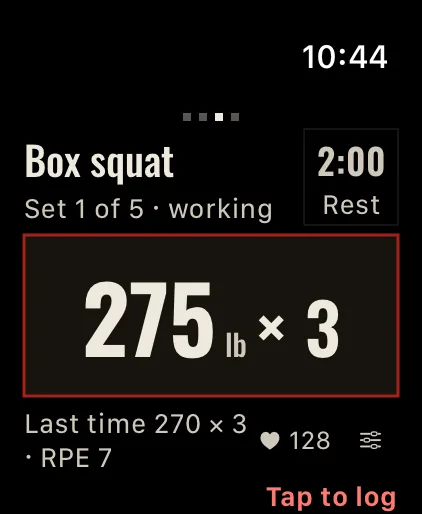
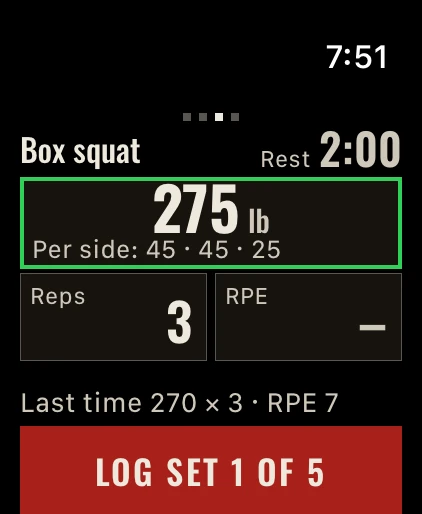
IronStack 10-10: the new watch set page in pictures and words (decision 22 a)
watch-set.webp is retaken from the 22 a build on the same 49 mm Simulator
(422 × 514, made-up demo data): weight with plates per side, Reps, RPE and
Log set, where the old shot had one card and "Tap to log". The home, Rack,
IronStack and details pages now say tap a number, turn the Crown, tap Log set.
The 10-10 notes gain the watch-fit line (synced from fix/watch-set-fits).

Claude-Session: https://claude.ai/code/session_0143SRMSeeBHCNdsQ1Ad6r9K

diff --git a/src/content/releases/ironstack-0.1.1-next.md b/src/content/releases/ironstack-0.1.1-next.md
@@ -2,8 +2,8 @@
 app: ironstack
 version: "0.1.1"
 order: 1001
-changes: 43
-groups: [{"title": "Today", "slug": "today", "leads": ["Check-in is one sheet for the start of a workout.", "Today's ··· menu says what each edit does: \"Reorder, group or remove exercises\" and \"Change planned sets\".", "Before you start, and under Up next, a superset or circuit no longer shows \"A1\" and \"A2\" tags.", "An exercise from today's superset or circuit that you add by typing it, saying it or picking it in Add an...", "An exercise renamed or swapped by a Stack AI card is counted once.", "End a workout with nothing logged and Today asks \"Nothing logged. End without saving?\".", "Changing the bar or implement during a workout works again: pick one, choose its weight, then Done."]}, {"title": "The clock", "slug": "the-clock", "leads": ["Every clock warns the same way, on the phone and the watch.", "Voice cues follow the ringer switch as it is now: muted, the phone buzzes.", "With your watch in the workout, the heart-rate number keeps its place on the clock, so a late reading no..."]}, {"title": "Exercise library", "slug": "exercise-library", "leads": ["The library is in sections by movement.", "Settings › Training › Library sections chooses which sections show when you browse.", "When search results come from more than one section, each one says which, such as \"Conditioning · Hyrox\"...", "The Training, Muscle and Equipment buttons and their chips are bigger and easier to see.", "Basketball and lacrosse: 86 new exercises...", "Some exercises now carry a coaching note on their page, such as how to land a depth jump.", "Shooting drills say what a rep is on the set sheet: \"Reps are makes\" (or goals, wins, saves).", "Drop and Turn is another name for Yoke Walk, and Elbows Out DB Extensions for Tate Press, so sets logged..."]}, {"title": "Plan", "slug": "plan", "leads": ["A row under Plan's title goes straight to Program, Programs, Workouts or the exercise library, and stays put..."]}, {"title": "History", "slug": "history", "leads": ["Workouts and Progress have a large title under the switch, so you can see which page you're on.", "On an exercise's page, the range you pick (3 months, 1 year and so on) sets the whole page."]}, {"title": "Home and Social", "slug": "home-and-social", "leads": ["Support stays in step between Social and Home.", "Notifications from Social and from your coach never show anything you typed."]}, {"title": "Coach mode (beta)", "slug": "coach-mode-beta", "leads": ["Every way into coaching (asking a coach, accepting an invite, and Coach me) says what our server does with...", "Tell Stack AI you're on a coach's plan and it will still build a workout for today, but a new program is a..."]}, {"title": "Stack AI", "slug": "stack-ai", "leads": ["The Stack AI button is the new Stack AI mark, three plates.", "Stack AI builds a workout or a program when you ask for one, from what you asked and your log, on a card.", "Ask Stack AI to change a workout it drafted and the change comes back as a card, never as the workout written...", "Save to Plan on a workout Stack AI revised replaces that workout in your Plan instead of adding a second copy.", "Dumbbell lifts and other lifts held in both hands are read per hand.", "When Stack AI is broken on our side, it says...", "Copy my log to the server is gone, and everything it copied has been erased from the server."]}, {"title": "Apple Watch", "slug": "apple-watch", "leads": ["The set page on the watch is new.", "Under the weight, the watch shows the plates per side for the weight your phone planned.", "Heart rate is on the watch's Clock page, no longer on the set page.", "Finish a workout on your watch and your phone offers to share it, once, when you're next on Today...", "Finish on the watch with nothing logged and it says so, and saves nothing to Health.", "Settings › Apple Watch is one section, and it shows the watch app's own version, such as..."]}, {"title": "Settings", "slug": "settings", "leads": ["Settings › Gym has one place for everything your gym has.", "A bodyweight that came from Apple Health now stays current with your newest weigh-in when you come back to...", "Settings › You says \"Add your sex to see your strength score.\" only until you answer.", "Sharing your export from Settings › Your data keeps the share sheet and Settings up, however big your log.", "Settings and the tour say a set is logged where they used to say it lands, as in..."]}]
+changes: 44
+groups: [{"title": "Today", "slug": "today", "leads": ["Check-in is one sheet for the start of a workout.", "Today's ··· menu says what each edit does: \"Reorder, group or remove exercises\" and \"Change planned sets\".", "Before you start, and under Up next, a superset or circuit no longer shows \"A1\" and \"A2\" tags.", "An exercise from today's superset or circuit that you add by typing it, saying it or picking it in Add an...", "An exercise renamed or swapped by a Stack AI card is counted once.", "End a workout with nothing logged and Today asks \"Nothing logged. End without saving?\".", "Changing the bar or implement during a workout works again: pick one, choose its weight, then Done."]}, {"title": "The clock", "slug": "the-clock", "leads": ["Every clock warns the same way, on the phone and the watch.", "Voice cues follow the ringer switch as it is now: muted, the phone buzzes.", "With your watch in the workout, the heart-rate number keeps its place on the clock, so a late reading no..."]}, {"title": "Exercise library", "slug": "exercise-library", "leads": ["The library is in sections by movement.", "Settings › Training › Library sections chooses which sections show when you browse.", "When search results come from more than one section, each one says which, such as \"Conditioning · Hyrox\"...", "The Training, Muscle and Equipment buttons and their chips are bigger and easier to see.", "Basketball and lacrosse: 86 new exercises...", "Some exercises now carry a coaching note on their page, such as how to land a depth jump.", "Shooting drills say what a rep is on the set sheet: \"Reps are makes\" (or goals, wins, saves).", "Drop and Turn is another name for Yoke Walk, and Elbows Out DB Extensions for Tate Press, so sets logged..."]}, {"title": "Plan", "slug": "plan", "leads": ["A row under Plan's title goes straight to Program, Programs, Workouts or the exercise library, and stays put..."]}, {"title": "History", "slug": "history", "leads": ["Workouts and Progress have a large title under the switch, so you can see which page you're on.", "On an exercise's page, the range you pick (3 months, 1 year and so on) sets the whole page."]}, {"title": "Home and Social", "slug": "home-and-social", "leads": ["Support stays in step between Social and Home.", "Notifications from Social and from your coach never show anything you typed."]}, {"title": "Coach mode (beta)", "slug": "coach-mode-beta", "leads": ["Every way into coaching (asking a coach, accepting an invite, and Coach me) says what our server does with...", "Tell Stack AI you're on a coach's plan and it will still build a workout for today, but a new program is a..."]}, {"title": "Stack AI", "slug": "stack-ai", "leads": ["The Stack AI button is the new Stack AI mark, three plates.", "Stack AI builds a workout or a program when you ask for one, from what you asked and your log, on a card.", "Ask Stack AI to change a workout it drafted and the change comes back as a card, never as the workout written...", "Save to Plan on a workout Stack AI revised replaces that workout in your Plan instead of adding a second copy.", "Dumbbell lifts and other lifts held in both hands are read per hand.", "When Stack AI is broken on our side, it says...", "Copy my log to the server is gone, and everything it copied has been erased from the server."]}, {"title": "Apple Watch", "slug": "apple-watch", "leads": ["The set page on the watch is new.", "The watch's set page fits the screen.", "Under the weight, the watch shows the plates per side for the weight your phone planned.", "Heart rate is on the watch's Clock page, no longer on the set page.", "Finish a workout on your watch and your phone offers to share it, once, when you're next on Today...", "Finish on the watch with nothing logged and it says so, and saves nothing to Health.", "Settings › Apple Watch is one section, and it shows the watch app's own version, such as..."]}, {"title": "Settings", "slug": "settings", "leads": ["Settings › Gym has one place for everything your gym has.", "A bodyweight that came from Apple Health now stays current with your newest weigh-in when you come back to...", "Settings › You says \"Add your sex to see your strength score.\" only until you answer.", "Sharing your export from Settings › Your data keeps the share sheet and Settings up, however big your log.", "Settings and the tour say a set is logged where they used to say it lands, as in..."]}]
 status: in-progress
 ---
 
@@ -66,6 +66,7 @@ status: in-progress
 ### Apple Watch
 
 - **The set page on the watch is new.** Weight, reps and RPE are three numbers: tap one and turn the Digital Crown to change it. Nothing logs until you tap Log set. RPE opens a bigger picker with half steps (6 to 8 first, swipe for 8.5 to 10), on the page of the RPE you last gave that lift. After a set, Edit and Undo are right there, and Edit keeps the RPE you logged.
+- **The watch's set page fits the screen:** the weight, Reps, RPE and Log set are all in view, with nothing hidden under Log set. On 40 to 44 mm watches, the lift and the rest clock sit at the top beside the time.
 - **Under the weight, the watch shows the plates per side for the weight your phone planned.** Turn the Crown to another weight and that line goes blank for now; plate math on the watch comes in a later update.
 - **Heart rate is on the watch's Clock page, no longer on the set page.**
 - **Finish a workout on your watch and your phone offers to share it, once, when you're next on Today (signed in to Social).** Until then the watch says "Share it from your iPhone". Settings › Notifications › Share a watch workout turns this off.
